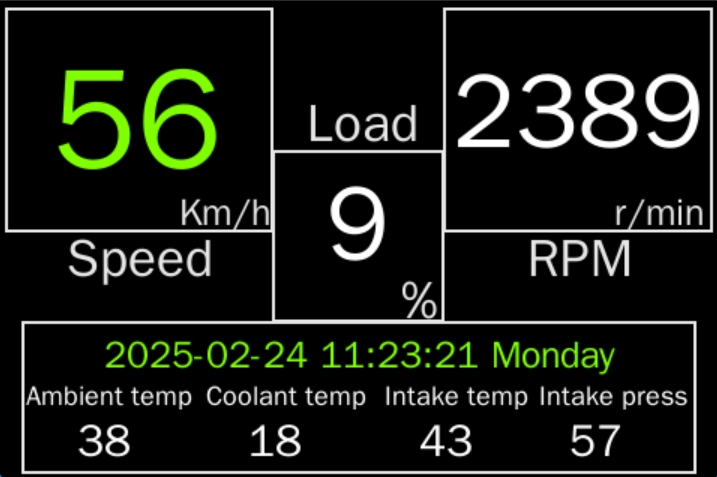
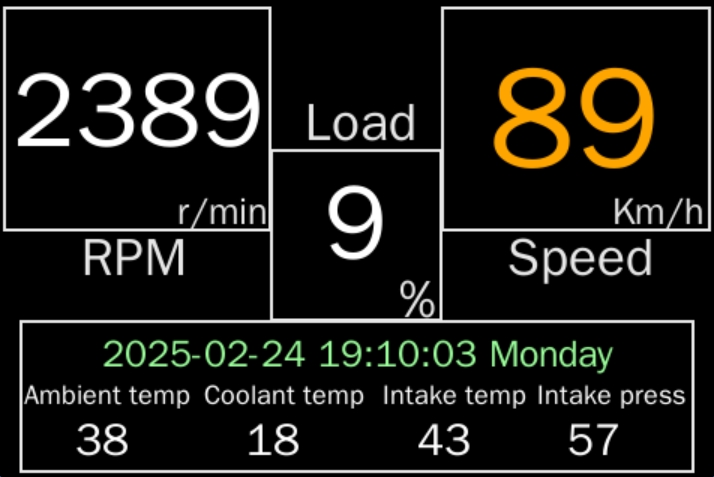
update

Changed region(s): [[0.0, 0.0, 1.0, 0.9979], [0.4622, 0.3816, 0.5546, 0.5577]]

diff --git a/dash/dash.py b/dash/dash.py
@@ -30,9 +30,9 @@ c7 = obd.commands.INTAKE_PRESSURE
 
 
 #display params
-speed = 0
 rpm = 0
 load = 0
+speed = 0
 air_temp = 0
 cool_temp = 0
 intake_temp = 0
@@ -50,9 +50,9 @@ wen_quan_font = "wenquanyizenheimono"
 if windows_debug:
     #wen_quan_font= "wenquanyizenheimono"
     wen_quan_font = "文泉驿正黑"
-    speed = 56
     rpm = 2389
     load = 9
+    speed = 111
     air_temp = 38
     cool_temp = 18
     intake_temp = 43
@@ -70,19 +70,19 @@ def draw_screen():
     # more info
     pygame.draw.rect(screen, GRAY, pygame.Rect(15, 214, 450, 102), 2)
 
-    speed_txt_font = pygame.font.SysFont(wen_quan_font, 35)
-    speed_txt_render = speed_txt_font.render("速度", True, GRAY)
-    screen.blit(speed_txt_render, (60, 150))
-    speed_unit_font = pygame.font.SysFont(wen_quan_font, 25)
-    speed_unit_render = speed_unit_font.render("Km/h", True, GRAY)
-    screen.blit(speed_unit_render, (120, 125))
-
     rpm_txt_font = pygame.font.SysFont(wen_quan_font, 35)
     rpm_txt_render = rpm_txt_font.render("转速", True, GRAY)
-    screen.blit(rpm_txt_render, (350, 150))
+    screen.blit(rpm_txt_render, (60, 150))
     rpm_unit_font = pygame.font.SysFont(wen_quan_font, 25)
     rpm_unit_render = rpm_unit_font.render("r/min", True, GRAY)
-    screen.blit(rpm_unit_render, (410, 125))
+    screen.blit(rpm_unit_render, (120, 125))
+
+    speed_txt_font = pygame.font.SysFont(wen_quan_font, 35)
+    speed_txt_render = speed_txt_font.render("速度", True, GRAY)
+    screen.blit(speed_txt_render, (350, 150))
+    speed_unit_font = pygame.font.SysFont(wen_quan_font, 25)
+    speed_unit_render = speed_unit_font.render("Km/h", True, GRAY)
+    screen.blit(speed_unit_render, (410, 125))
 
     load_txt_font = pygame.font.SysFont(wen_quan_font, 35)
     load_txt_render = load_txt_font.render("负载", True, GRAY)
@@ -102,12 +102,6 @@ def draw_screen():
     screen.blit(txt4, (360, 252))
 
 
-def speed_tracker(obd_response):
-    global speed
-    if not obd_response.is_null():
-        speed = int(obd_response.value.magnitude)
-
-
 def rpm_tracker(obd_response):
     global rpm
     if not obd_response.is_null():
@@ -118,6 +112,12 @@ def load_tracker(obd_response):
     global load
     if not obd_response.is_null():
         load = int(obd_response.value.magnitude)
+
+
+def speed_tracker(obd_response):
+    global speed
+    if not obd_response.is_null():
+        speed = int(obd_response.value.magnitude)
 
 
 def air_temp_tracker(obd_response):
@@ -164,9 +164,9 @@ def select_color_by_speed():
 
 
 def blit_data_by_value():
-    global speed
     global rpm
     global load
+    global speed
     global air_temp
     global cool_temp
     global intake_temp
@@ -197,27 +197,14 @@ def blit_data_by_value():
     intake_pressure_txt = more_info_font.render(str(intake_pressure), True, WHITE)
     screen.blit(intake_pressure_txt, (380, 275))
 
-    if speed < 10:
-        speed_font = pygame.font.SysFont(wen_quan_font, 115)
-        speed_txt = speed_font.render(str(speed), True, select_color_by_speed())
-        screen.blit(speed_txt, (60, 10))
-    elif speed >= 10 and speed < 100:
-        speed_font = pygame.font.SysFont(wen_quan_font, 95)
-        speed_txt = speed_font.render(str(speed), True, select_color_by_speed())
-        screen.blit(speed_txt, (35, 20))
-    else:
-        speed_font = pygame.font.SysFont(wen_quan_font, 75)
-        speed_txt = speed_font.render(str(speed), True, select_color_by_speed())
-        screen.blit(speed_txt, (25, 30))
-
     if rpm < 1000:
         rpm_font = pygame.font.SysFont(wen_quan_font, 80)
         rpm_txt = rpm_font.render(str(rpm), True, WHITE)
-        screen.blit(rpm_txt, (310, 30))
+        screen.blit(rpm_txt, (22, 30))
     else:
         rpm_font = pygame.font.SysFont(wen_quan_font, 70)
         rpm_txt = rpm_font.render(str(rpm), True, WHITE)
-        screen.blit(rpm_txt, (302, 30))
+        screen.blit(rpm_txt, (10, 30))
 
     if load < 10:
         load_font = pygame.font.SysFont(wen_quan_font, 70)
@@ -227,6 +214,19 @@ def blit_data_by_value():
         load_font = pygame.font.SysFont(wen_quan_font, 70)
         load_txt = load_font.render(str(load), True, WHITE)
         screen.blit(load_txt, (198, 105))
+
+    if speed < 10:
+        speed_font = pygame.font.SysFont(wen_quan_font, 115)
+        speed_txt = speed_font.render(str(speed), True, select_color_by_speed())
+        screen.blit(speed_txt, (328, 10))
+    elif speed >= 10 and speed < 100:
+        speed_font = pygame.font.SysFont(wen_quan_font, 95)
+        speed_txt = speed_font.render(str(speed), True, select_color_by_speed())
+        screen.blit(speed_txt, (328, 20))
+    else:
+        speed_font = pygame.font.SysFont(wen_quan_font, 75)
+        speed_txt = speed_font.render(str(speed), True, select_color_by_speed())
+        screen.blit(speed_txt, (317, 30))
 
 
 pygame.init()

diff --git a/dash/dash_en_us.py b/dash/dash_en_us.py
@@ -46,9 +46,9 @@ wen_quan_font = "wenquanyizenheimono"
 if windows_debug:
     #wen_quan_font = "文泉驿正黑"
     wen_quan_font= "wenquanyizenheimono"
-    speed = 56
     rpm = 2389
     load = 9
+    speed = 89
     air_temp = 38
     cool_temp = 18
     intake_temp = 43
@@ -66,19 +66,19 @@ def draw_screen():
     # more info
     pygame.draw.rect(screen, GRAY, pygame.Rect(15, 214, 450, 102), 2)
 
-    speed_txt_font = pygame.font.SysFont(wen_quan_font, 35)
-    speed_txt_render = speed_txt_font.render("Speed", True, GRAY)
-    screen.blit(speed_txt_render, (45, 150))
-    speed_unit_font = pygame.font.SysFont(wen_quan_font, 25)
-    speed_unit_render = speed_unit_font.render("Km/h", True, GRAY)
-    screen.blit(speed_unit_render, (120, 125))
-
     rpm_txt_font = pygame.font.SysFont(wen_quan_font, 35)
     rpm_txt_render = rpm_txt_font.render("RPM", True, GRAY)
-    screen.blit(rpm_txt_render, (352, 150))
+    screen.blit(rpm_txt_render, (56, 150))
     rpm_unit_font = pygame.font.SysFont(wen_quan_font, 25)
     rpm_unit_render = rpm_unit_font.render("r/min", True, GRAY)
-    screen.blit(rpm_unit_render, (410, 125))
+    screen.blit(rpm_unit_render, (120, 125))
+
+    speed_txt_font = pygame.font.SysFont(wen_quan_font, 35)
+    speed_txt_render = speed_txt_font.render("Speed", True, GRAY)
+    screen.blit(speed_txt_render, (340, 150))
+    speed_unit_font = pygame.font.SysFont(wen_quan_font, 25)
+    speed_unit_render = speed_unit_font.render("Km/h", True, GRAY)
+    screen.blit(speed_unit_render, (410, 125))
 
     load_txt_font = pygame.font.SysFont(wen_quan_font, 35)
     load_txt_render = load_txt_font.render("Load", True, GRAY)
@@ -98,12 +98,6 @@ def draw_screen():
     screen.blit(txt4, (360, 252))
 
 
-def speed_tracker(obd_response):
-    global speed
-    if not obd_response.is_null():
-        speed = int(obd_response.value.magnitude)
-
-
 def rpm_tracker(obd_response):
     global rpm
     if not obd_response.is_null():
@@ -114,6 +108,12 @@ def load_tracker(obd_response):
     global load
     if not obd_response.is_null():
         load = int(obd_response.value.magnitude)
+
+
+def speed_tracker(obd_response):
+    global speed
+    if not obd_response.is_null():
+        speed = int(obd_response.value.magnitude)
 
 
 def air_temp_tracker(obd_response):
@@ -160,9 +160,9 @@ def select_color_by_speed():
 
 
 def blit_data_by_value():
-    global speed
     global rpm
     global load
+    global speed
     global air_temp
     global cool_temp
     global intake_temp
@@ -193,27 +193,14 @@ def blit_data_by_value():
     intake_pressure_txt = more_info_font.render(str(intake_pressure), True, WHITE)
     screen.blit(intake_pressure_txt, (380, 275))
 
-    if speed < 10:
-        speed_font = pygame.font.SysFont(wen_quan_font, 115)
-        speed_txt = speed_font.render(str(speed), True, select_color_by_speed())
-        screen.blit(speed_txt, (60, 10))
-    elif speed >= 10 and speed < 100:
-        speed_font = pygame.font.SysFont(wen_quan_font, 95)
-        speed_txt = speed_font.render(str(speed), True, select_color_by_speed())
-        screen.blit(speed_txt, (35, 20))
-    else:
-        speed_font = pygame.font.SysFont(wen_quan_font, 75)
-        speed_txt = speed_font.render(str(speed), True, select_color_by_speed())
-        screen.blit(speed_txt, (25, 30))
-
     if rpm < 1000:
         rpm_font = pygame.font.SysFont(wen_quan_font, 80)
         rpm_txt = rpm_font.render(str(rpm), True, WHITE)
-        screen.blit(rpm_txt, (310, 30))
+        screen.blit(rpm_txt, (22, 30))
     else:
         rpm_font = pygame.font.SysFont(wen_quan_font, 70)
         rpm_txt = rpm_font.render(str(rpm), True, WHITE)
-        screen.blit(rpm_txt, (302, 30))
+        screen.blit(rpm_txt, (10, 30))
 
     if load < 10:
         load_font = pygame.font.SysFont(wen_quan_font, 70)
@@ -223,6 +210,19 @@ def blit_data_by_value():
         load_font = pygame.font.SysFont(wen_quan_font, 70)
         load_txt = load_font.render(str(load), True, WHITE)
         screen.blit(load_txt, (198, 105))
+
+    if speed < 10:
+        speed_font = pygame.font.SysFont(wen_quan_font, 115)
+        speed_txt = speed_font.render(str(speed), True, select_color_by_speed())
+        screen.blit(speed_txt, (328, 10))
+    elif speed >= 10 and speed < 100:
+        speed_font = pygame.font.SysFont(wen_quan_font, 95)
+        speed_txt = speed_font.render(str(speed), True, select_color_by_speed())
+        screen.blit(speed_txt, (328, 20))
+    else:
+        speed_font = pygame.font.SysFont(wen_quan_font, 75)
+        speed_txt = speed_font.render(str(speed), True, select_color_by_speed())
+        screen.blit(speed_txt, (317, 30))
 
 
 pygame.init()
